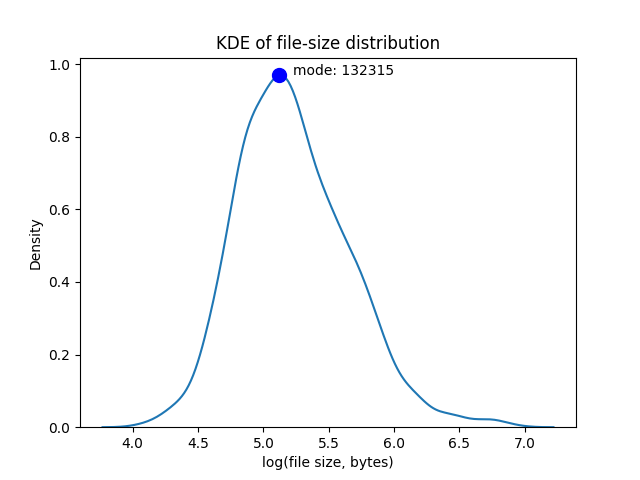
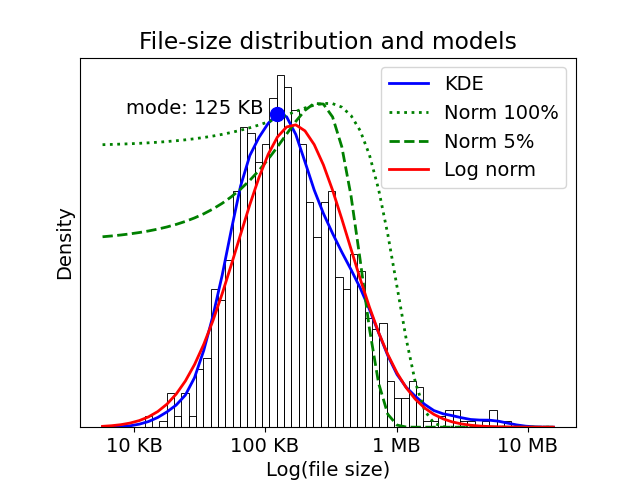
plot of file size dist

diff --git a/analysis/calculate_size_dist.py b/analysis/calculate_size_dist.py
@@ -1,28 +1,132 @@
+#!/usr/bin/env python
 """Make a KDE plot of file size distribution."""
+from pathlib import Path
+from typing import Annotated
+from typing import Optional
+
 import matplotlib.pyplot as plt
 import numpy as np
 import pandas as pd
 import seaborn as sns
+import typer
+from scipy.stats import norm
 
 
-df = pd.read_csv("PDB_random_1000_sizes.tsv", sep="\t", index_col=0)
-df["log10_size"] = np.log10(df["size"])
-ax = sns.kdeplot(data=df["log10_size"])
-x = ax.lines[0].get_xdata()  # Get the x data of the distribution
-y = ax.lines[0].get_ydata()  # Get the y data of the distribution
-maxid = np.argmax(y)  # The id of the peak (maximum of y data)
-x_max = x[maxid]
-y_max = y[maxid]
-mode = int(round(10.0**x_max, 0))
-print(f"modal file size is {mode}")
-plt.title("KDE of file-size distribution")
-plt.xlabel("log(file size, bytes)")
-plt.annotate(
-    f"mode: {mode}",
-    (x_max, y_max),
-    textcoords="offset points",
-    xytext=(10, 0),
-    ha="left",
-)
-plt.plot(x_max, y_max, "bo", ms=10)
-plt.savefig("../docs/_static/file_size_distribution.svg")
+DEFAULT_INPUT = Path("PDB_random_1000_sizes.tsv")
+DEFAULT_OUTPUT = Path("../docs/_static/file_size_distribution.png")
+DEFAULT_NPOINTS = 50
+DOWNSAMPLE_PERCENT = 5
+
+
+def main(
+    input_tsv: Annotated[Optional[Path], typer.Option()] = None,
+    plot_file: Annotated[Optional[Path], typer.Option()] = None,
+    npoints: int = DEFAULT_NPOINTS,
+    logspace: bool = True,
+    show: bool = False,
+):
+    """Plot histogram of sizes against various distributions."""
+    if input_tsv is None:
+        input_tsv = DEFAULT_INPUT
+    if plot_file is None:
+        plot_file = DEFAULT_OUTPUT
+    df = pd.read_csv(input_tsv, sep="\t", index_col=0)
+    lindata = df["size"]
+    logdata = np.log10(lindata)
+    if logspace:
+        data = logdata
+    else:
+        data = lindata
+    plt.rcParams.update({"font.size": 14})
+    sns.histplot(
+        data=data,
+        color="k",
+        stat="density",
+        fill=False,
+        bins=npoints,
+    )
+    ax = sns.kdeplot(
+        data=data,
+        linewidth=2,
+        label="KDE",
+        color="b",
+        gridsize=npoints,
+    )
+    x = ax.lines[0].get_xdata()  # Get the x data of the distribution
+    y = ax.lines[0].get_ydata()  # Get the y data of the distribution
+    mu, std = norm.fit(lindata)
+    print(f"norm mu={mu}, std={std}")
+    norm_p = norm.pdf(10.0**x, mu, std)
+    norm_p = norm_p * 1.0 / max(norm_p)
+    plt.plot(
+        x,
+        norm_p,
+        "g",
+        linewidth=2,
+        label="Norm 100%",
+        linestyle="dotted",
+    )
+    np.random.seed(87507)
+    ds_lindata = np.random.choice(
+        lindata, size=int(len(lindata) * DOWNSAMPLE_PERCENT / 100.0)
+    )
+    ds_mu, ds_std = norm.fit(ds_lindata)
+    print(f"norm [{DOWNSAMPLE_PERCENT}] mu={ds_mu}, std={ds_std}")
+    ds_norm_p = norm.pdf(10.0**x, ds_mu, ds_std)
+    ds_norm_p = ds_norm_p * 1.0 / max(ds_norm_p)
+    plt.plot(
+        x,
+        ds_norm_p,
+        "g",
+        linewidth=2,
+        label=f"Norm {DOWNSAMPLE_PERCENT}%",
+        linestyle="dashed",
+    )
+    log_mu, log_std = norm.fit(logdata)
+    print(f"log norm mu={log_mu}, std={log_std}")
+    lognorm_p = norm.pdf(x, log_mu, log_std)
+    plt.plot(x, lognorm_p, "r", linewidth=2, label="Log norm")
+    maxid = np.argmax(y)  # The id of the peak (maximum of y data)
+    x_max = x[maxid]
+    y_max = y[maxid]
+    if logspace:
+        mode = int(round(10.0**x_max / 1024.0, 0))
+        x_axis_label = "Log(file size)"
+    else:
+        mode = int(round(x_max / 1024.0, 0))
+        x_axis_label = "file size, bytes"
+    print(f"modal file size is {mode} KB")
+
+    plt.title("File-size distribution and models")
+    plt.xlabel(x_axis_label)
+    plt.legend()
+    plt.annotate(
+        f"mode: {mode} KB",
+        (x_max, y_max),
+        textcoords="offset points",
+        xytext=(-10, 0),
+        ha="right",
+    )
+    ax.set_yticks([])
+    if logspace:
+        kilobyte = 1024
+        ticks = np.log10(
+            [
+                kilobyte,
+                10 * kilobyte,
+                100 * kilobyte,
+                kilobyte * kilobyte,
+                10 * kilobyte * kilobyte,
+            ]
+        )
+        labels = ["1 KB", "10 KB", "100 KB", "1 MB", "10 MB"]
+        plt.xticks(ticks, labels)
+    plt.plot(x_max, y_max, "bo", ms=10)
+    if show:
+        plt.show()
+    else:
+        plt.savefig(plot_file)
+
+
+if __name__ == "__main__":
+    typer.run(main)

diff --git a/README.md b/README.md
@@ -40,34 +40,34 @@ of multiple servers achieves saturation earlier while
 providing better reliability in the face of varying network
 loads and server service policies.
 
-## Theory
+## Fishing Theory
 
 Lengths of files generated by natural or human activity such as writing,
 coding, protein structure determination, or genome sequencing tend to
 have **long-tail distributions**, roughly following either a power law
 (Zipf) or a log-normal distribution (see figure below). The effects of
-the big files in the long tail are frequently ignored in computer-science
-approaches such as the leaky-bucket algorithm of queuing theory. Here I
-propose a heuristic called **adaptive-depth requesting** that gives robust
-performance in real situations while being simple enough to be easily
-understood and coded.
-
-[![sizedist](https://raw.githubusercontent.com/hydrationdynamics/flardl/main/docs/_static/file_size_distribution.png)]
+the big files in the long tail are frequently ignored in queuing
+algorithms. Here I propose a heuristic called **adaptive-depth queuing**
+that gives robust performance in real situations while being simple
+enough to be easily understood and coded.
 
 The nature of long-tail distributions is such that **mean values are nearly
 worthless** because--unlike on normal distributions--means of runs drawn
-from them grow larger with number of samples. A few minutes spent with a
-mock downloading program (such as is included in _flardl_) will convince
-you that the total download time and therefore the mean downloading rate
-depends strongly on how many large-size outliers (let's call them
-"[Berthas](<https://en.wikipedia.org/wiki/Big_Bertha_(howitzer)>)")
-are included in your sample. Timings of algorithms that do
-near-simultaneous, asynchronous downloads may also depend strongly on
-whether the Berthas are found at the beginning or the end of the
-stream and whether or not they happen to be doled out to the same server.
+from them grow larger with the size of the run. Because of the appreciable
+likelihood of drawing a really large file to be downloaded from a long-tail
+distribution, he total download time and therefore the mean downloading rate
+depends strongly on how many large-size outliers are included in your sample. Timings of algorithms that do
+If you are downloading multiple files simultaneously, the overall download
+time may also depend strongly on whether a large file happens to occur at
+the end of the list, causing an "overhang" of wwaiting for a single file.
 Theories and algorithms based on overall times or mean rates won't
-work very well on the real-world power-law collections that are most
-important.
+work very well on the long-tail distributions that often characterize
+real collections. The figure below shows the file-size distribution for
+1000 randomly-sampled examples of type of structure file from the
+[Protein Data Bank](https://rcsb.org), which appoximately follows a
+log-normal distribution.
+
+[![sizedist](https://raw.githubusercontent.com/hydrationdynamics/flardl/main/docs/_static/file_size_distribution.png)]
 
 **Modal values are a good statistic for power-law distributions**, unlike
 means. To put that another way, the average download time $\overline{t_{dl}}$
